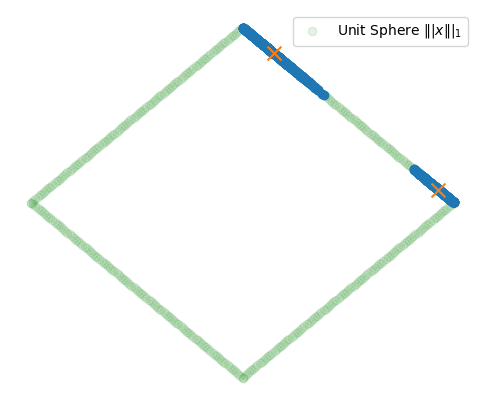
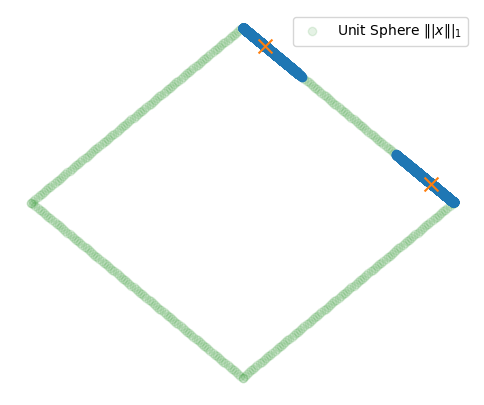
fixing results

Changed region(s): [[0.8058, 0.3556, 0.9298, 0.5037], [0.6198, 0.1778, 0.6818, 0.2667], [0.5269, 0.0889, 0.5888, 0.1481]]

diff --git a/src/model/spherical_k_means.py b/src/model/spherical_k_means.py
@@ -71,16 +71,21 @@ class ExtremeSphericalKMeans:
         # Preprocess the data (normalize each vector to have unit norm)
         self.X = Preprocessing.process(X, self.threshold)
 
+        # Initalization with KMeans
+        kmeans = KMeans(n_clusters=self.n_clusters, n_init=self.n_init)
+        kmeans.fit(self.X)
+
         # Initialize labels
-        labels = np.random.randint(low=0, high=self.n_clusters, size=self.X.shape[0])
+        labels = kmeans.labels_
         
         # Compute initial centroids
-        new_centroids = self._compute_centroid(self.X, labels)
-        centroids = new_centroids.copy() + 4
+        new_centroids = kmeans.cluster_centers_
+        centroids = new_centroids.copy() + 4 * np.ones_like(new_centroids)
         
         for _ in range(self.max_iter):
             # Compute new labels
             labels = self._labelize(self.X, new_centroids)
+            print(labels)
 
             # Compute new centroids
             new_centroids = self._compute_centroid(self.X, labels)
